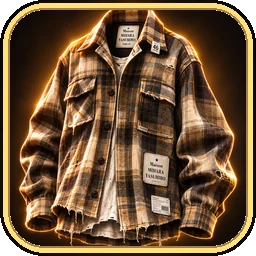
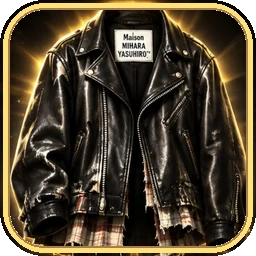
Ver.3.48: ミハラヤスヒロのレザージャケットの絵をレザーに差し替え
Claude-Session: https://claude.ai/code/session_01CscwrA9Qzzx2ozdNGW4uSD

diff --git a/index.html b/index.html
@@ -235,7 +235,7 @@ html,body{touch-action:manipulation}
  <div id="lineWarn">LINEのアプリ内ブラウザだとセーブが消えることがあります。SafariかChromeで開いてね</div>
  <div id="tYado"><img src="assets/mei_yado.webp" alt=""></div><div id="tYbub"></div>
 <div id="tUpd">🔄 更新を確認</div>
- <div id="tver">Ver.3.47</div>
+ <div id="tver">Ver.3.48</div>
 </div>
 
 <div id="hud">
